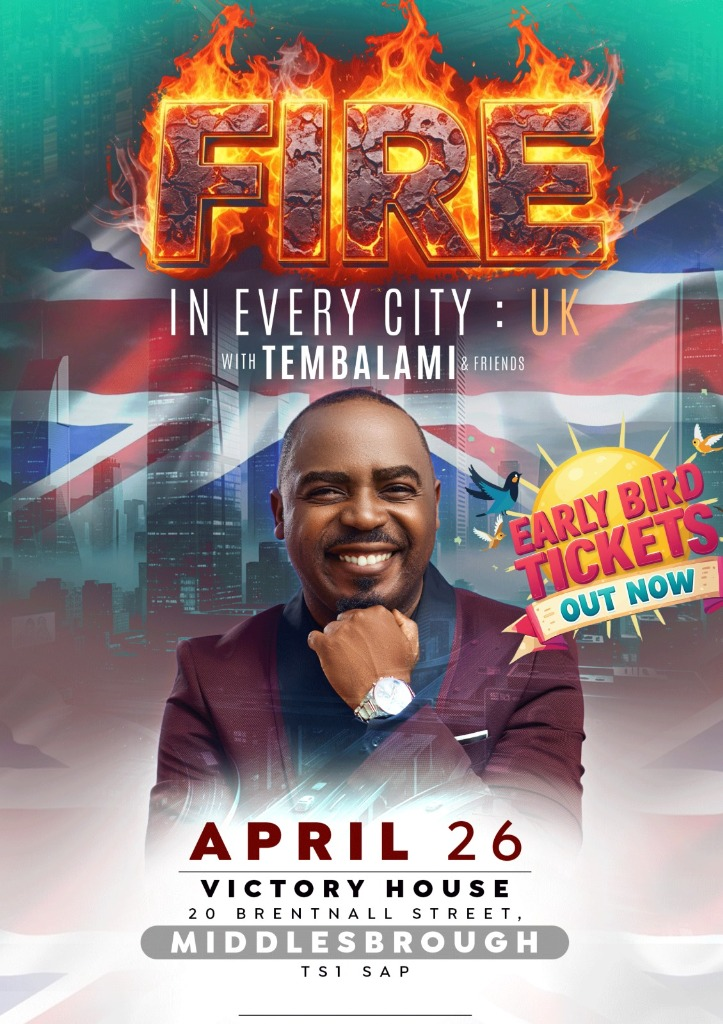
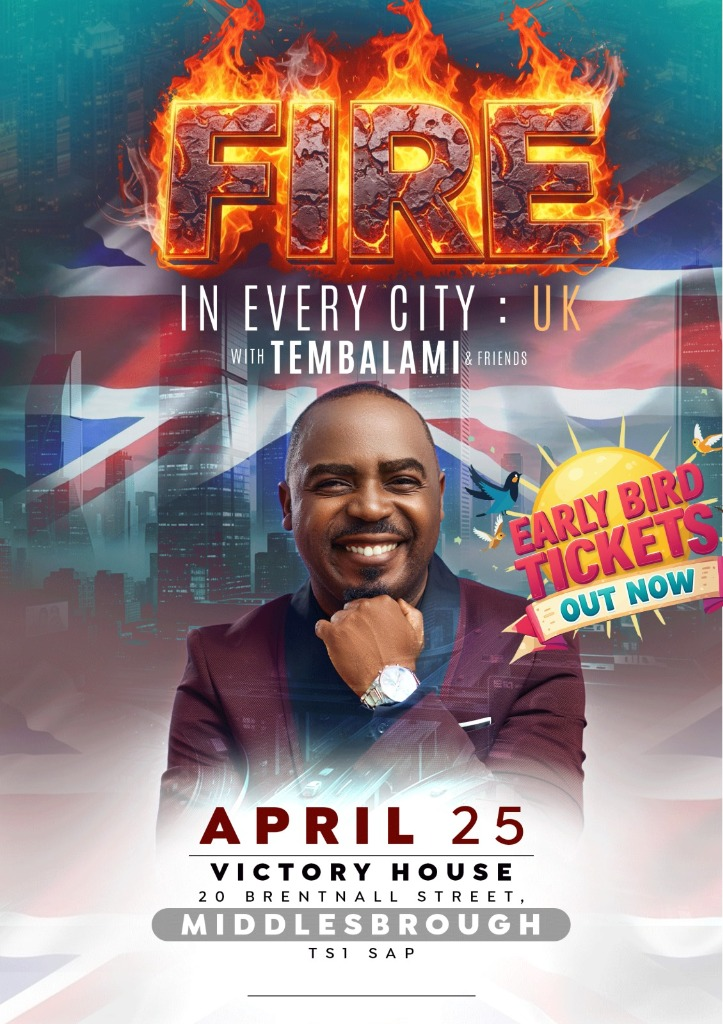
Update Middlesbrough flyer to new version and change date to April 25

diff --git a/components/sections/fire-in-every-city.tsx b/components/sections/fire-in-every-city.tsx
@@ -60,7 +60,7 @@ export function FireInEveryCity() {
                         </div>
                         <div className="space-y-4 text-center w-full max-w-sm">
                             <div className="bg-secondary/5 p-6 rounded-lg border border-secondary/10 w-full">
-                                <p className="font-bold text-lg mb-2">APRIL 26 - MIDDLESBROUGH</p>
+                                <p className="font-bold text-lg mb-2">APRIL 25 - MIDDLESBROUGH</p>
                                 <p className="font-mono text-muted-foreground text-sm">Victory House, 20 Brentnall Street, TS1 5AP</p>
                             </div>
 
